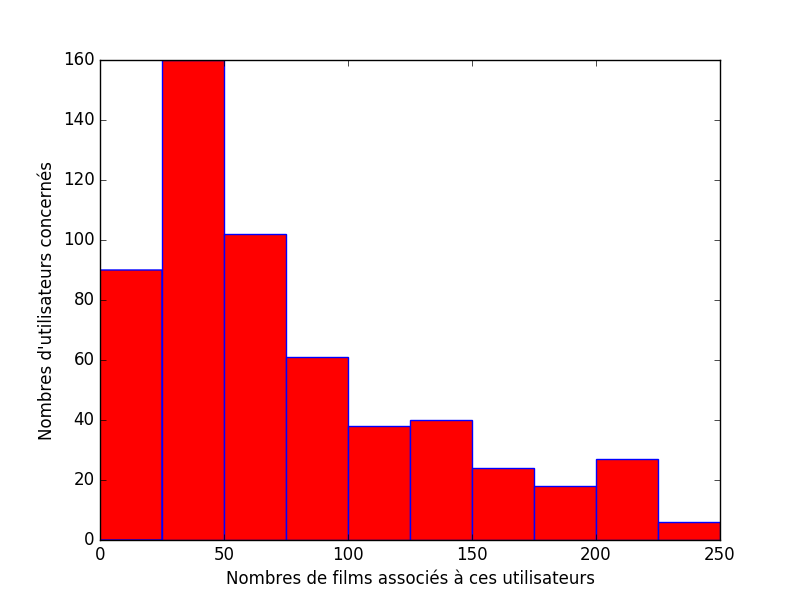
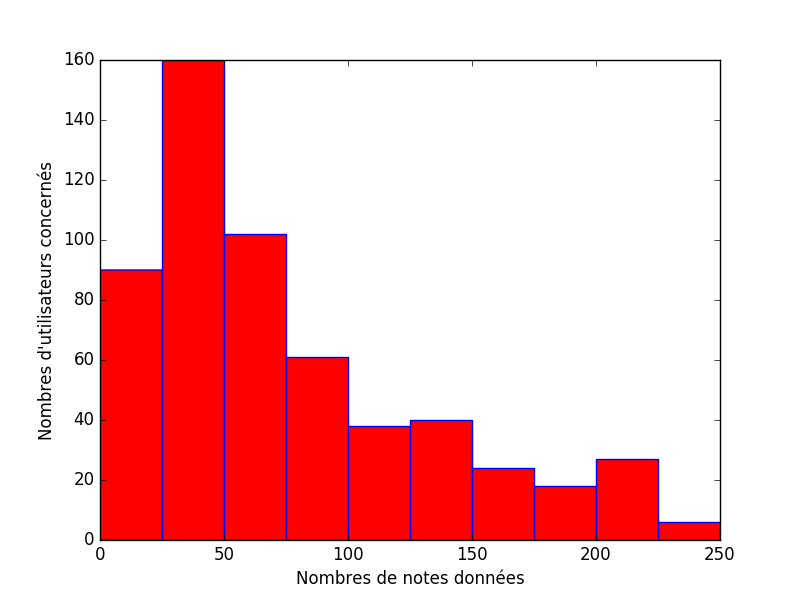
relecture

Changed region(s): [[0.2812, 0.93, 0.75, 0.99]]

diff --git a/compte rendu/compte_rendu.tex b/compte rendu/compte_rendu.tex
@@ -69,7 +69,7 @@
 
 Nous remercions notre encadrant de projet, Valentin Emiya qui nous a guidé et soutenu tout au long de ce projet. \\
 
-Nous remercions également Victoria Paolantoni qui nous a débloqué pour la rédaction de l'une des preuves.\\
+Nous remercions également Victoria Paolantoni qui nous a débloqué pour la rédaction de l'une des preuves mathématique.\\
 
 Enfin, nous remercions toutes les personnes ayant participé à la relecture de ce rapport.
 \newpage
@@ -90,7 +90,7 @@ A l’ère du numérique, la collecte de données d’une multitude d’utilisat
 personnalisées de tout type. C’est une chose que l’on rencontre souvent : recommandations d’amis sur Facebook, suggestions d’achats sur Internet, etc.
 Nous avons choisi de nous intéresser à la recommandation automatique de films.
 Mais comment recommander à un utilisateur un film qu’il aimera ? Beaucoup de critères peuvent entrer en compte : 
-le genre du film, le jeu des acteurs, la date du film, ou tout simplement sa bonne qualité … Tout cela est très subjectif \! \\
+le genre du film, le jeu des acteurs, la date du film, ou tout simplement sa bonne qualité … Tout cela est très subjectif ! \\
 
 
 Nous en arrivons à la problématique suivante : Comment concevoir un programme informatique permettant une recommandation personnalisée pertinente ?
@@ -224,7 +224,7 @@ Chose importante, les approximations utilisées ne fonctionnent qu'avec des vale
 
 Depuis le début nous parlons d'un minimum et pas du minimum. En fait la descente du gradient permet d'arriver à un minimum local d'une fonction. Pour minimiser J, nous avons décidé de nous contenter d'un minimum.
 
-\subsection{Minimiser J}
+\subsection{Minimiser la fonction de coût}
 
 Nous voulons maintenant appliquer le même raisonnement sur $J$ pour modifier X et $\Theta$, initialement pris aléatoirement, un certain nombre de fois jusqu'à arriver à une valeur de $J(X, \Theta)$ assez faible. Voyons voir comment s'y prendre.\\
 
@@ -367,9 +367,9 @@ Ce qui nous donne ce nouvel algorithme beaucoup plus rapide :\\
 
 \newpage
 
-\section{Preuves}
+\section{Preuves mathématiques}
 
-\subsection{}  
+\subsection{Preuve numéro 1}  
 \label{P1}
 Les notations utilisées sont les mêmes que dans la partie \ref{optimisation}. Montrons : \[\nabla_{(x_{j})^T} J(\Theta, X) = \nabla_{(x_{j})^T}\frac{1}{2}\Vert\tilde{\Theta}(x_{j})^{T}-\tilde{y}_{.,j}\Vert^{2}\]
 Nous avons :
@@ -407,7 +407,7 @@ Nous avons :
 \end{align*}\\
 
 Nous montrons de la même manière que : \[\nabla_{(\theta_{i})^T} J(\Theta, X) = \nabla_{(\theta_{i})^T}\frac{1}{2}\Vert\tilde{X}(\theta_{i})^{T}-\tilde{y}_{i}\Vert^{2}\]
-\subsection{}  
+\subsection{Preuve numéro 2}  
 \label{P2}
 Montrons que $\forall n \in \mathbb{N}^{*}$ $\forall p \in \mathbb{N}^{*}$ si A est une matrice de dimension $p \times n$, x une matrice colonne de dimension $n \times 1$ et b une matrice colonne de dimension $p \times 1$ alors : \[\nabla_{x}\frac{1}{2}\Vert Ax-b \Vert^2 = A^{T}(Ax-b)\]
 Soit $(n,p) \in (\mathbb{N}^*)^2$. Soient $A \in {\cal M}_{p, n}$, $x \in {\cal M}_{n, 1}$ et $b \in {\cal M}_{p, 1}$.\\
@@ -434,7 +434,7 @@ Pour mettre en place cela nous choisissons de ne pas recalculer $X$ et $\Theta$ 
 
 \newpage
 
-\section{Familiarisation avec problème plus simple}
+\section{Familiarisation avec un problème plus simple}
 \label{extrait}
 
 Parlons d'un un autre problème plus simple, toujours dans le cadre de la recommandation de film grâce à la descente du gradient. Tout cela afin de bien comprendre comment fonctionne la descente du gradient.\\

diff --git a/ml-latest-small/stat.py b/ml-latest-small/stat.py
@@ -42,5 +42,8 @@ def pourcentage_de_nan(array):
 
 
 
-
+plt.hist(nbre_de_film_vu_par_utilisateur(tableau_des_notes()),bins=10,range=(0,250),color='red',edgecolor='blue')
+plt.xlabel("Nombres de notes données")
+plt.ylabel("Nombres d'utilisateurs concernés")
+plt.show()
 
